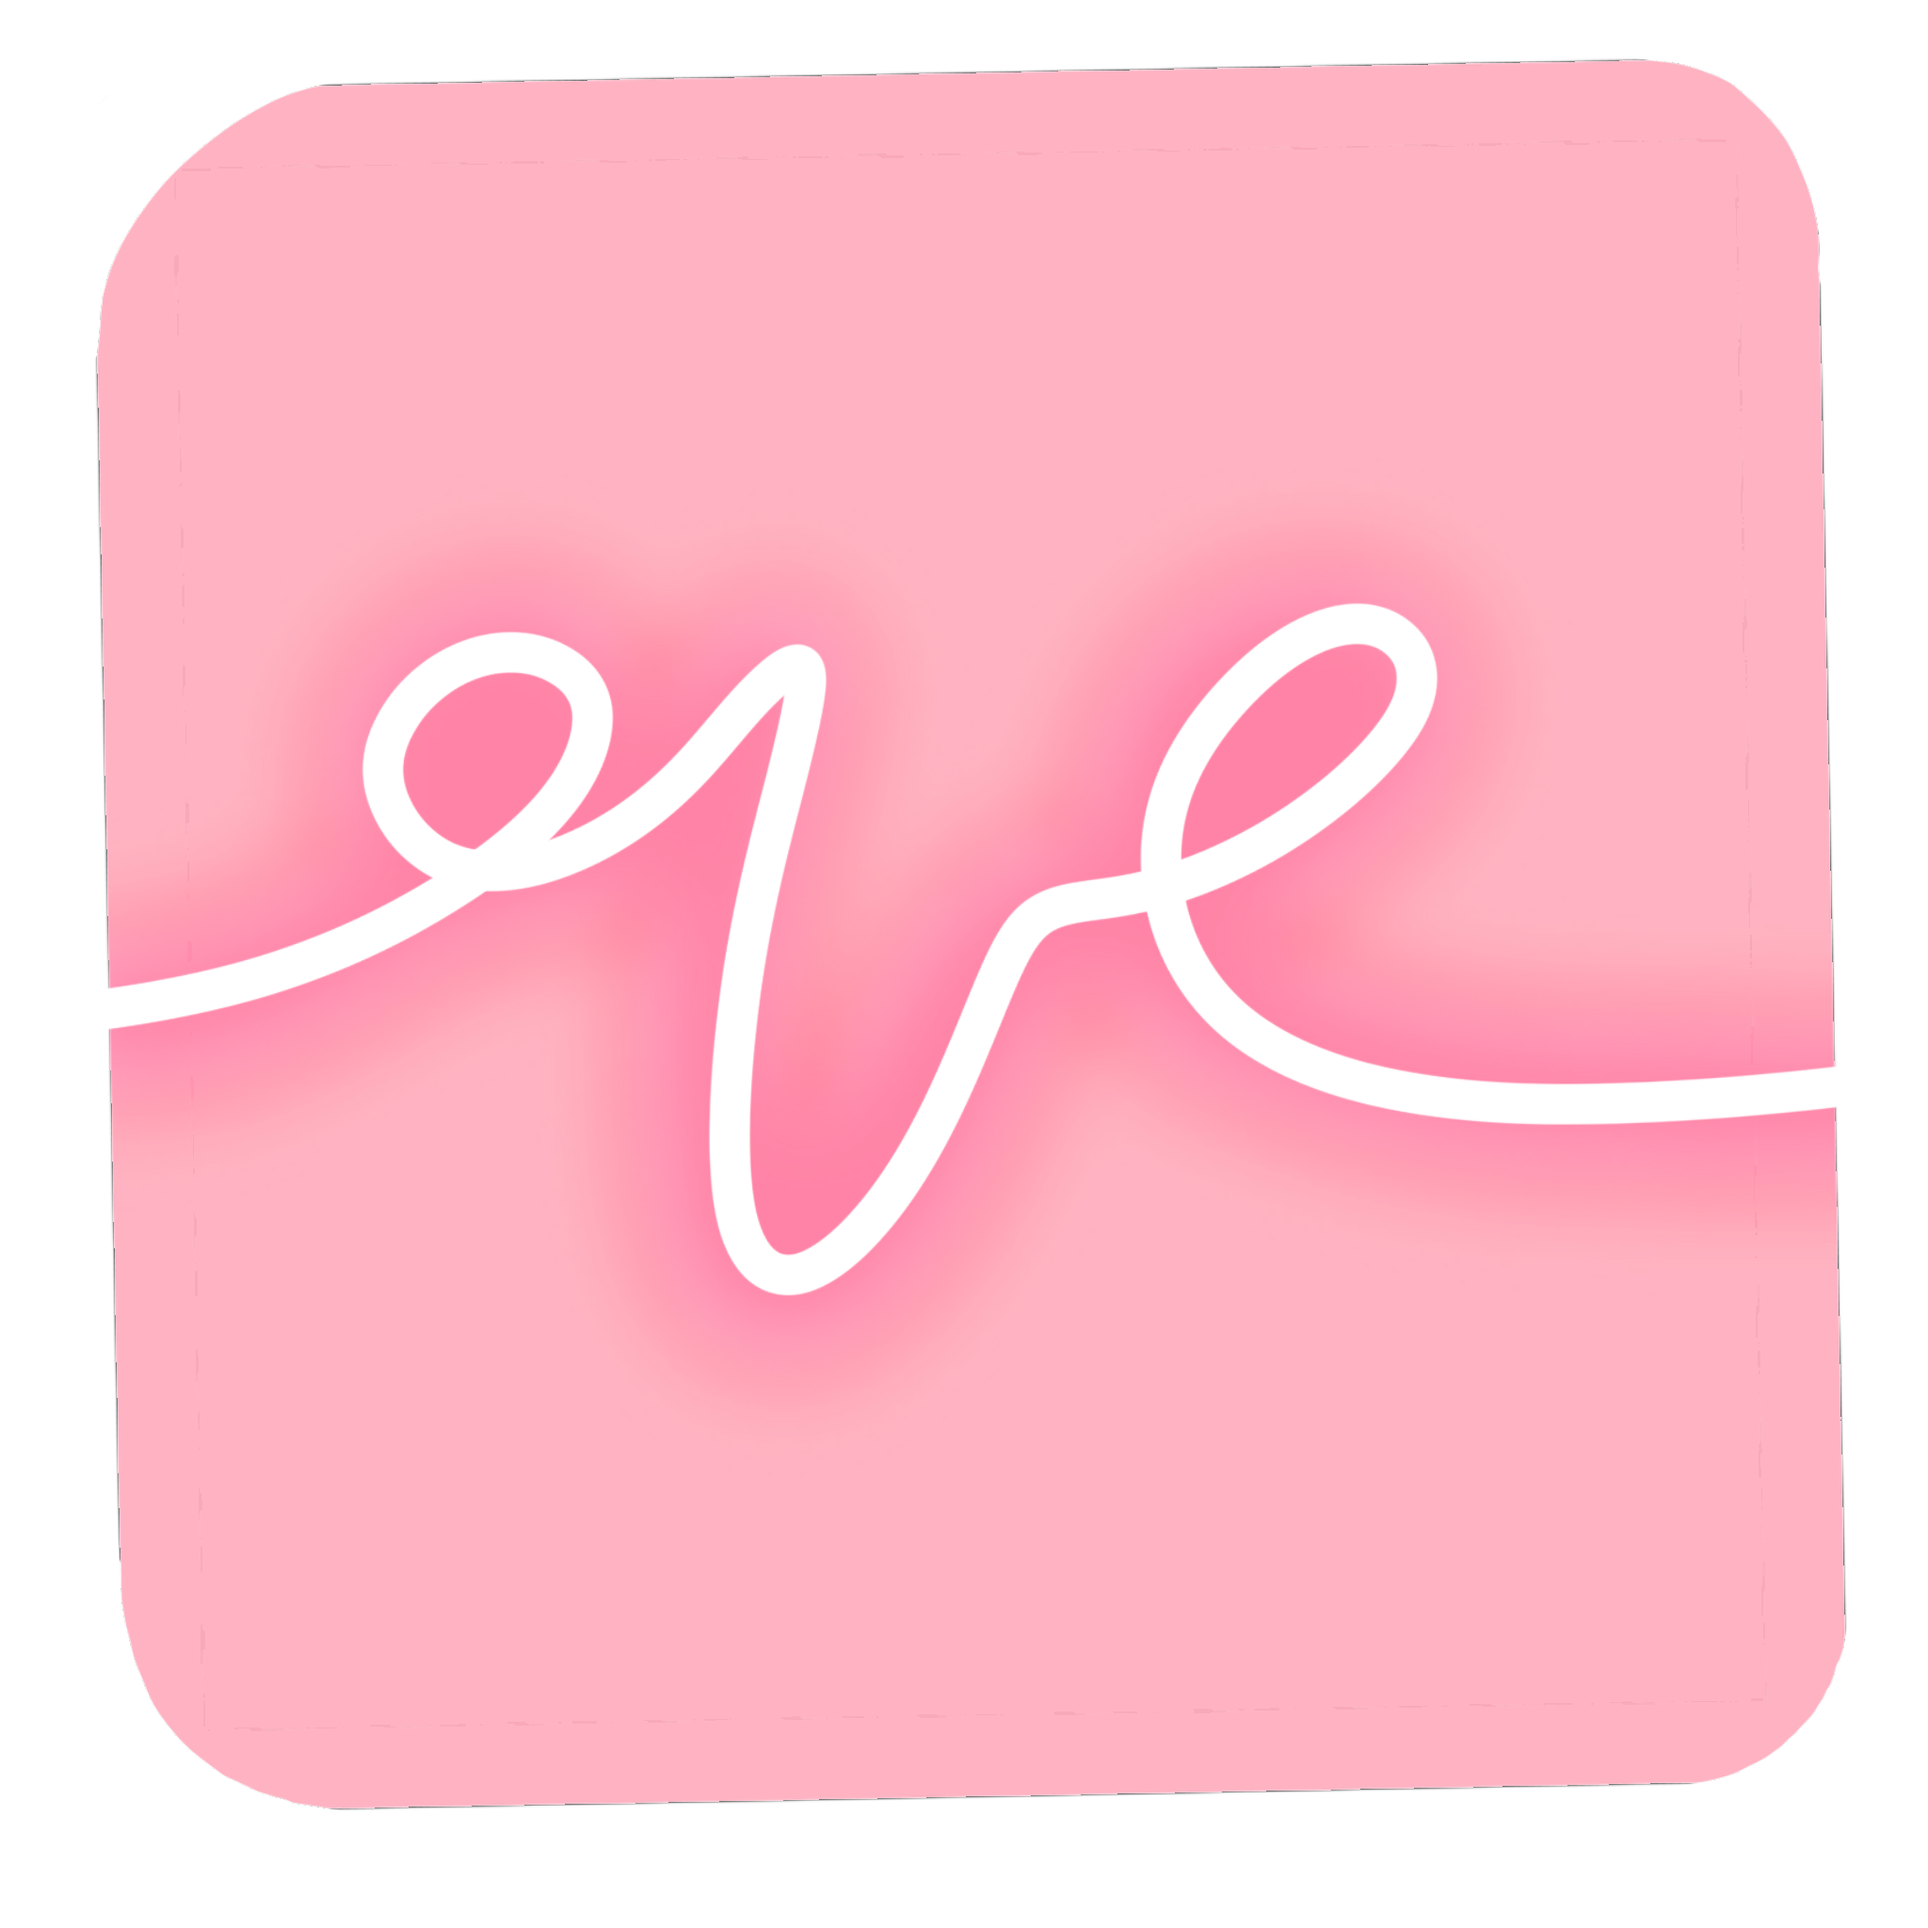
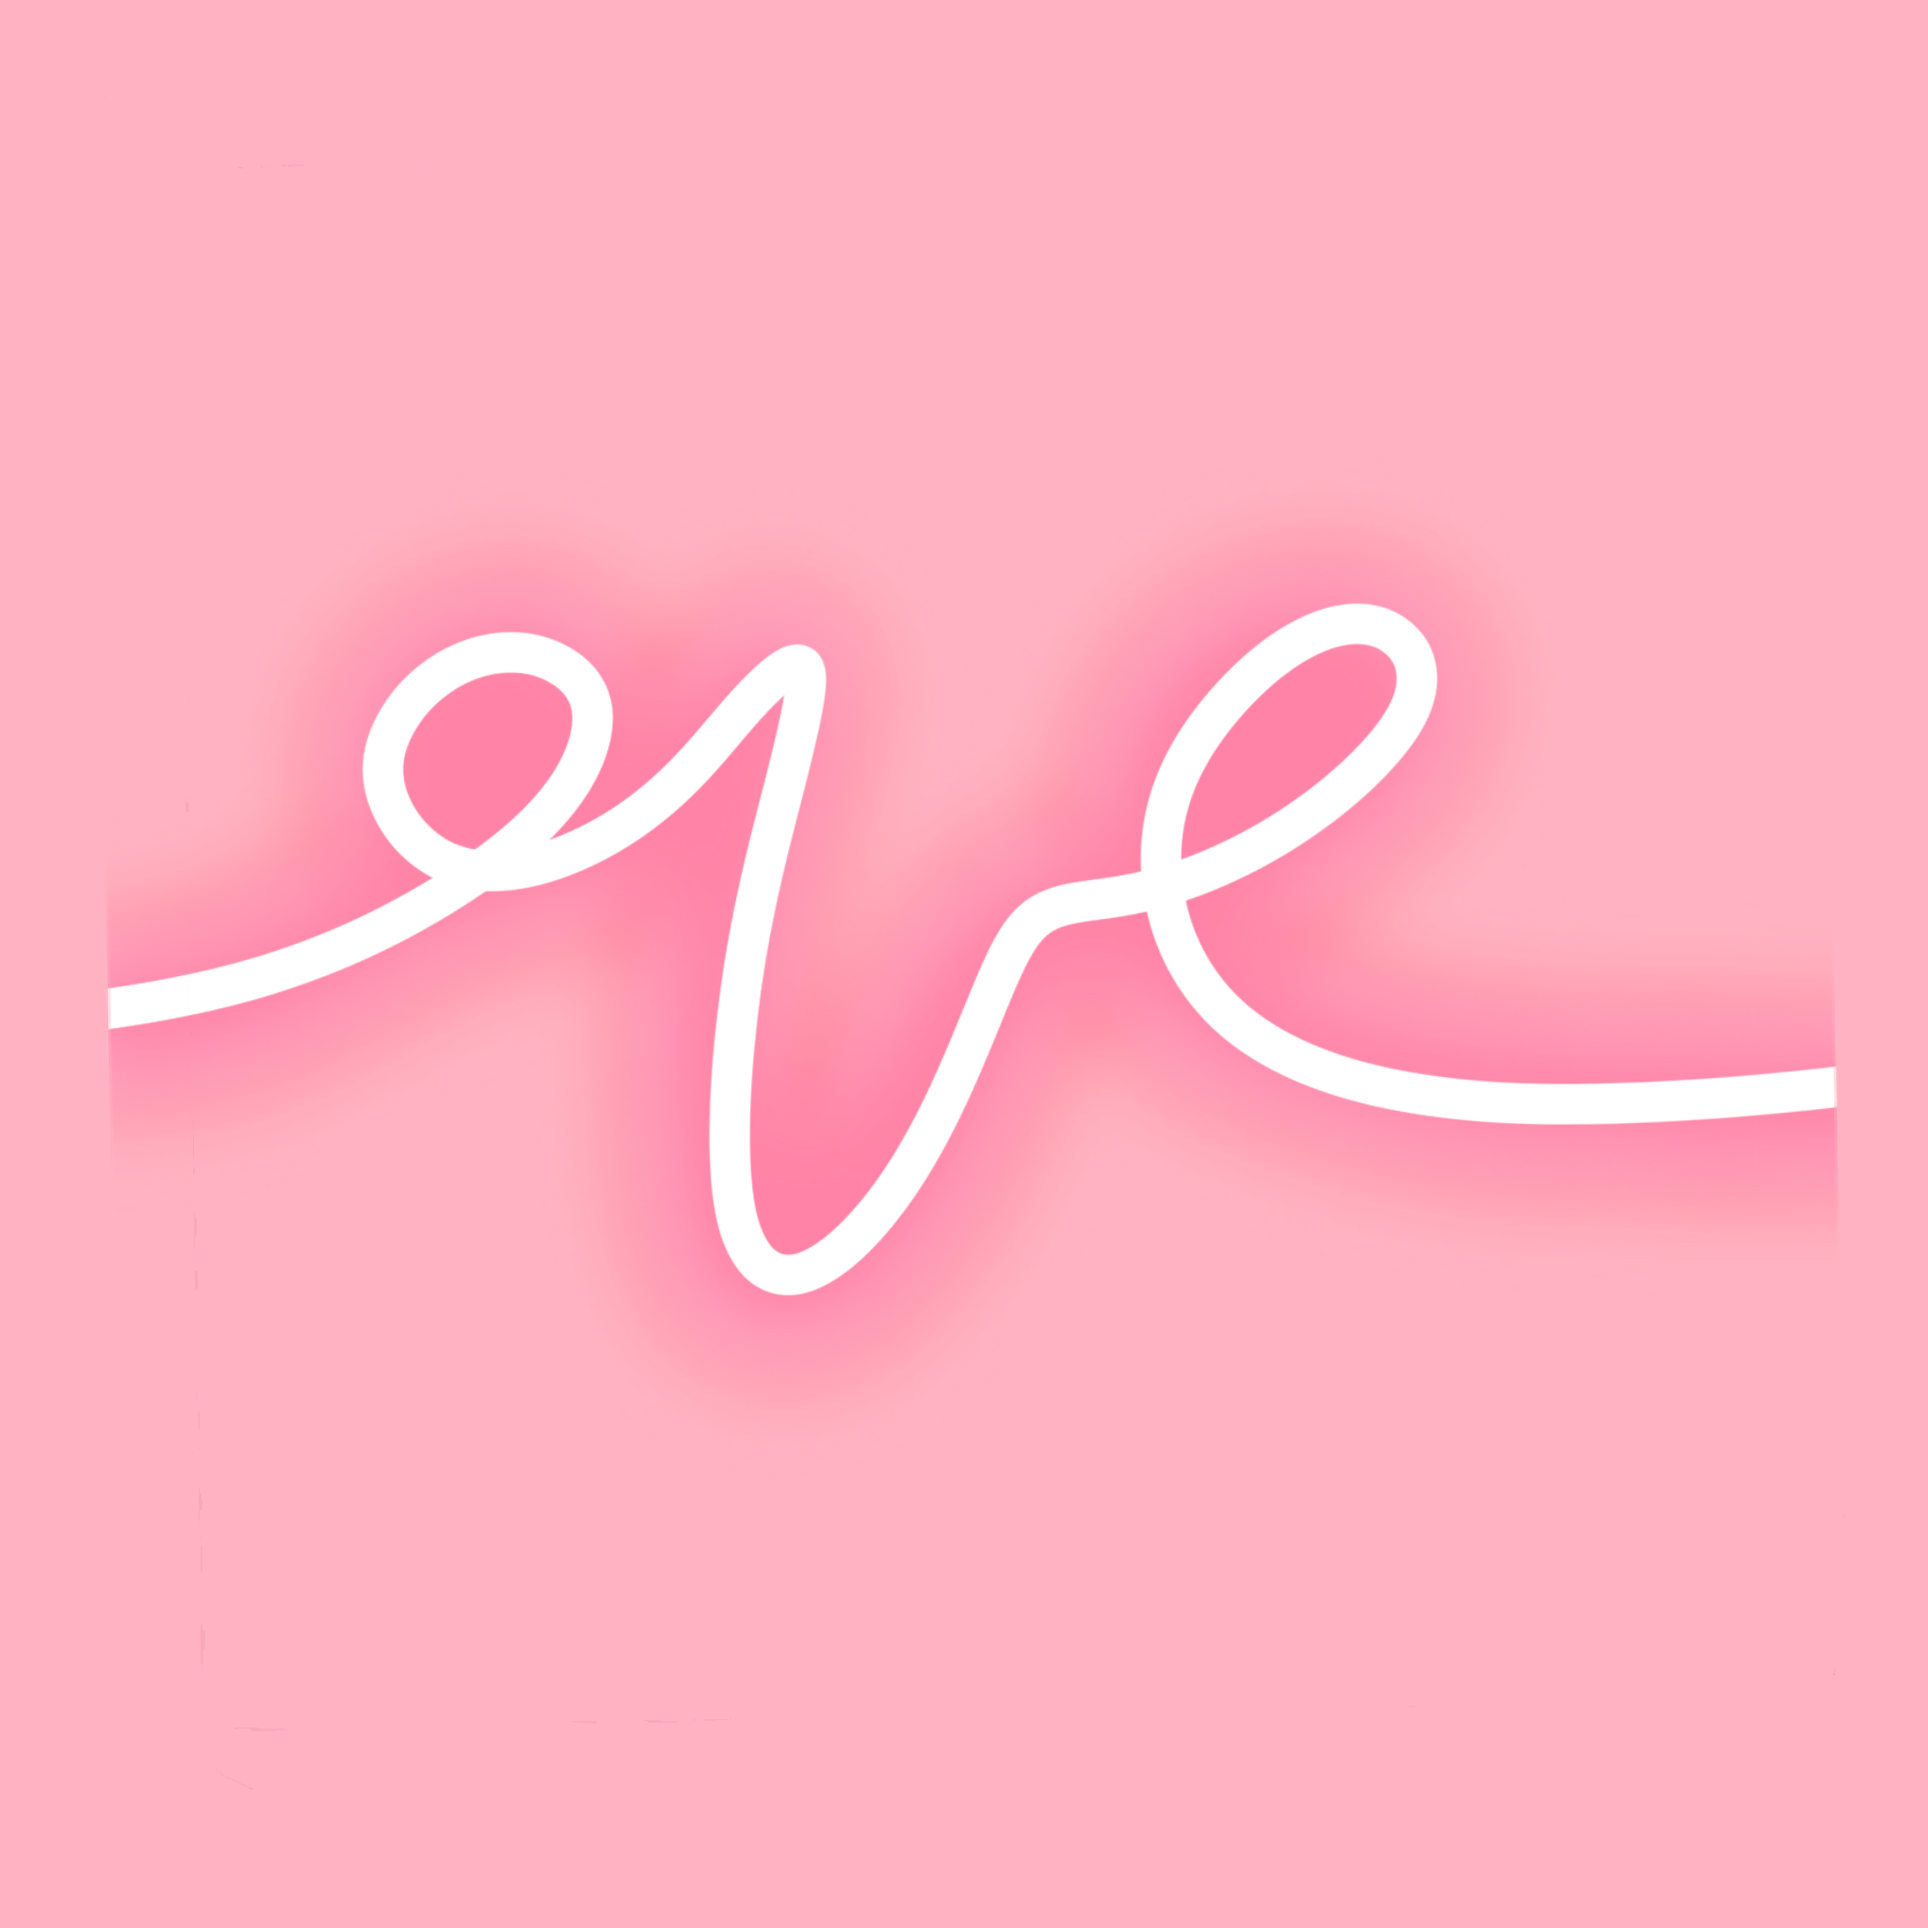
Css, bug fixes and incomplete elements

Changed region(s): [[0.0, 0.0, 1.0, 1.0]]

diff --git a/js/major.js b/js/major.js
@@ -1,7 +1,7 @@
 var api = '6237cbf0dced170e8c83a41d';
 var userUrl = 'https://ldavis-b83d.restdb.io/rest/majorlogins';
 var arrUsers = [''];
-var user = "Raymond";
+var loggedInUser = "";
 var arrUserIrritants = "lanolin";
 const AUTH0_CLIENT_ID = "XXK1MFFk3DwMidOeqZuKJvYxuXXEnDR0";
 const AUTH0_DOMAIN = "lavenmajor.au.auth0.com";
@@ -36,112 +36,6 @@ changePage("#btnScannerBack", "#scannerScreen", "#startPage");
 changePage("#btnUserBack", "#userHub", "#startPage");
 changePage('#btnSignup', "#loginPage", "#signUpPage");
 
-
-//login through authfication -- need to access connection between Auth0, restDB and Github 
-// Google and standalone authentication using Auth0 integration with restdb.io
-/*
-$(function () {
-    const AUTH0_CLIENT_ID = "XXK1MFFk3DwMidOeqZuKJvYxuXXEnDR0";
-    const AUTH0_DOMAIN = "lavenmajor.au.auth0.com";
-
-    var lock = new Auth0Lock(AUTH0_CLIENT_ID, AUTH0_DOMAIN, {
-        auth: {
-            params: { scope: 'openid email profile' },
-            configurationBaseUrl: 'https://cdn.auth0.com',
-            responseType: 'token id_token'
-        }
-    });
-    // auto login
-    if (localStorage.getItem('id_token')) {
-        var token = localStorage.getItem('id_token');
-        lock.getProfile(token, function (error, profile) {
-            if (error) {
-                // Handle error
-                return;
-            }
-            // Display user information
-            show_profile_info(profile);
-
-            // global ajax Authorization setup
-            $.ajaxPrefilter(function (options) {
-                if (!options.beforeSend) {
-                    options.beforeSend = function (xhr) {
-                        xhr.setRequestHeader('Authorization', 'Bearer ' + localStorage.getItem('id_token'));
-                    }
-                }
-            });
-
-            // get task items from database
-            getItems();
-        });
-    }
-    var show_profile_info = function (profile) {
-        console.log(profile.picture);
-        $('.nickname').text(profile.nickname);
-        $('.btn-login').hide();
-        $('.avatar').attr('src', profile.picture).show();
-        $('.btn-logout').show();
-    };
-
-    var retrieve_profile = function () {
-        var id_token = localStorage.getItem('id_token');
-        if (id_token) {
-            lock.getProfile(id_token, function (err, profile) {
-                if (err) {
-                    return alert('There was an error getting the profile: ' + err.message);
-                }
-                // Display user information
-                show_profile_info(profile);
-                // enable api button
-                $('.btn-api').removeAttr("disabled");
-            });
-        }
-    };
-
-    $('.btn-login').click(function (e) {
-        e.preventDefault();
-        lock.show();
-        return false;
-    });
-
-    $('.btn-logout').click(function (e) {
-        localStorage.removeItem('id_token');
-        $('.btn-api').attr("disabled", "true");
-        window.location.href = "/";
-        e.preventDefault();
-        return false;
-    });
-
-    lock.on("authenticated", function (authResult) {
-        lock.getProfile(authResult.accessToken, function (error, profile) {
-            if (error) {
-                // Handle error
-                console.log("Auth0 getProfile failed", error);
-                return;
-            }
-
-            localStorage.setItem('id_token', authResult.idToken);
-
-            // Display user information
-            show_profile_info(profile);
-
-            // global ajax Authorization setup
-            $.ajaxPrefilter(function (options) {
-                if (!options.beforeSend) {
-                    options.beforeSend = function (xhr) {
-                        xhr.setRequestHeader('Authorization', 'Bearer ' + localStorage.getItem('id_token'));
-                    }
-                }
-            });
-
-            // get task items from database
-            getItems();
-        });
-    });
-});
-
-*/
-
 //Log in through Restdb
 
 var users;
@@ -163,12 +57,15 @@ $.ajax(settings).done(function (response) {
 
 //log in system
 function login(username, password) {
-    for (user of users){
-        if (user.email_address == username && user.Password == password){
-            console.log ("user yay")
+    for (user of users) {
+        if (user.email_address == username && user.Password == password) {
+            console.log(user);
+            loggedInUser = user;
             //success stuff here
             $("#loginPage").hide();
             $("#startPage").show();
+            document.getElementById("txtWelcome").innerText = "welcome back " + user.Name;
+            document.getElementById("profileName").innerText = user.Name;
             break;
         }
     }
@@ -179,9 +76,8 @@ $('#btnLogin').click(function () {
     );
 });
 
-//Sign up
-
-function addUser(item){
+//Sign up system
+function addUser(item) {
     var settings = {
         "async": true,
         "crossDomain": true,
@@ -201,8 +97,7 @@ function addUser(item){
     });
 }
 
-
-$("#btnComplete").click(function() {
+$("#btnComplete").click(function () {
     let user = {
         Name: $("#signUpName")[0].value,
         email_address: $("#signUpUsername")[0].value,
@@ -211,6 +106,48 @@ $("#btnComplete").click(function() {
     addUser(user);
 });
 changePage("#btnComplete", "#signUpPage", "#loginPage")
+
+//user hub
+
+//irritants record
+function irritantLog() {
+    var settings = {
+        "async": true,
+        "crossDomain": true,
+        "url": "https://ldavis-b83d.restdb.io/rest/irritants",
+        "method": "GET",
+        "headers": {
+            "content-type": "application/json",
+            "x-apikey": api,
+            "cache-control": "no-cache"
+        }
+    }
+    $.ajax(settings).done(function (response) {
+        let thisUsersIrs = response.filter(function (v) {
+            if (v.Profile[0].email_address == loggedInUser.email_address) {
+                return true;
+            }
+            else {
+                return false;
+            }
+        });
+        document.getElementById("irritantList").innerHTML = "";
+        for (irritant of thisUsersIrs){
+            document.getElementById("irritantList").innerHTML += "<p>" + irritant.Ingredient[0]["INCI name"] + ;
+        }
+    });
+}
+
+$("#btnUserHub").click(function () {
+    irritantLog();
+});
+
+
+
+
+
+
+
 
 //Scanner
 /*function cameraActivate() {
@@ -227,6 +164,8 @@ changePage("#btnComplete", "#signUpPage", "#loginPage")
     };
 }
 cameraActivate();*/
+
+//ocr software (hella buggy)
 
 const player = document.getElementById('player')
 const snapshotZone = document.getElementById('snapshot')
@@ -252,8 +191,6 @@ captureButton.addEventListener('click', function () {
 //edit irritants
 
 /*$(function () {
-
-
     var errorMessages = {
         "REQUIRED": "This field is required",
         "UNIQUE": "This value already exists",

diff --git a/css/major.css b/css/major.css
@@ -1,26 +1,30 @@
+html, body {
+    font-family: 'DM Sans', sans-serif;
+}
+
 #phoneScreen {
     width: 414px;
     height: 97vh;
     border: 1px solid black;
     position: absolute;
-    font-family: monospace;
+    font-family: 'DM Sans', sans-serif;
 }
 
 button {
     cursor: pointer;
-    background-color: pink;
-    padding: 5px;
+    background-color: transparent;
+    padding: 6px;
     border-radius: 20px;
     top: 50px;
-    font-family: monospace;
+    border-width:3px;
+    border-color: pink;
+    border-style: solid;
 }
 
 .logo {
-    position: absolute;
     background-size: cover;
     background-image: url("../images/revuivinate.png");
-    font-family: monospace;
-    border-radius: 20px;
+    border-radius: 50%;
 }
 
 .back {
@@ -35,16 +39,17 @@ button {
     top: 100px;
     width: 200px;
     height: 200px;
+    position: absolute;
 }
 
-#btnSignUp {
-    left: 32%;
+#btnSignup {
+    left: 30%;
     top: 380px;
     position: absolute;
 }
 
 #btnLogin {
-    left: 42%;
+    left: 50%;
     top: 380px;
     position: absolute;
 }
@@ -64,26 +69,26 @@ button {
 #logoStart {
     width: 150px;
     height: 150px;
-    left: 30%;
-    top: 110px;
+}
+
+#startPage{
+    display: flex;
+    flex-direction: column;
+    justify-content: center;
+    align-items: center;
+    height: 100%;
+    gap: 18px;
 }
 
 #txtWelcome {
-    top: 265px;
-    left: 15%;
-    position: absolute;
     font-size: large;
 }
 
 #btnUserHub {
-    top: 310px;
-    left: 35%;
     padding: 15px;
 }
 
 #btnScannerPage {
-    top: 380px;
-    left: 36%;
     padding: 15px;
 }
 
@@ -124,6 +129,7 @@ button {
 #btnIrritantEdit {
     left: 35%;
     top: 70%;
+    position: absolute;
 }
 
 #welcomeRay {

diff --git a/index.html b/index.html
@@ -13,12 +13,16 @@
     <script type="text/javascript" src="https://unpkg.com/tesseract.js@v2.0.0-beta.1/dist/tesseract.min.js"></script>
     <!-- Auth0 lock script -->
     <script src="https://cdn.auth0.com/js/lock/11.16.0/lock.min.js"></script>
+    <!-- fonts -->
+    <link rel="preconnect" href="https://fonts.googleapis.com">
+    <link rel="preconnect" href="https://fonts.gstatic.com" crossorigin>
+    <link href="https://fonts.googleapis.com/css2?family=DM+Sans&display=swap" rel="stylesheet">
+
 </head>
 
 <body>
     <div id="phoneScreen">
         <div id="loginPage">
-            <div id="welcomeRay">welcome Josh</div>
             <!--<p class="lead">Welcome<span class="nickname"></span></p>
             <img width="100px" alt="[picture not found]" class="avatar" style="display:none;">
             <button type="submit" background-color=pink class="btn btn-default btn-login">Sign In</button>
@@ -37,7 +41,7 @@
         </div>
         <div id="startPage">
             <div id="logoStart" class="logo"></div>
-            <text id="txtWelcome">Welcome back + user's name</text>
+            <text id="txtWelcome"></text>
             <button id="btnUserHub" class="button">User hub</button>
             <button id="btnScannerPage" class="button">Scanner</button>
         </div>
@@ -59,7 +63,7 @@
             <!--<div id="History">History list</div>-->
         </div>
         <div id="irritantLog">
-            <div id="btnIrritantBack" class ="back">Back</div>
+            <div id="btnIrritantBack" class="back">Back</div>
             <form role="form" id="irritants-form">
                 <div class="form-group">
                     <label id="userID">User:</label>
